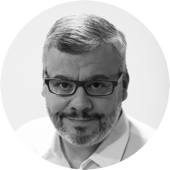
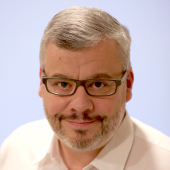
fix about and update tristan's picture

diff --git a/src/about.html b/src/about.html
@@ -58,7 +58,7 @@ pathTo: ..
           <div class="col-xs-22 col-lg-18">
             <h2>{{__ 'Cozy team'}}</h2>
             <div class="cozyTeam-content">
-              <p>{{__ 'We are a team of people who are passionate about software development and who firmly believe in personal privacy and freedom. We also believe in empowering users by providing them with open source tools that can help them to improve their daily lives and remain independent from commercial service providers. We are a flat organization of equal peers, with executives and a board of members advising us on the business aspects of running the company.'}}</p>
+              <p>{{__ 'We are a team of people who are passionate about software development and who firmly believe in personal privacy and freedom. We also believe in empowering users by providing them with free and open source tools that can help them to improve their daily lives and remain independent from commercial service providers. We are a flat organization of equal peers, with executives and a board of members advising us on the business aspects of running the company.'}}</p>
             </div>
           </div>
         </div>
@@ -338,7 +338,7 @@ pathTo: ..
               <p>They can offer Cozy as a turn-key solution for non-technical
               users. This allows you to expand your market reach by attracting
               users looking for a viable alternative to existing solutions like
-              iCloud. Cozy enhannces VPS offers by making them easy to use.</p>
+              iCloud. Cozy enhances VPS offers by making them easy to use.</p>
             </div>
           </div>
           <hr class="dash-primary">
@@ -386,7 +386,7 @@ pathTo: ..
                     November 2012
                   </h3>
                   <p class="timeline-item-content">
-                    Cozy born
+                    Cozy was born
                   </p>
                 </div>
               </li>
